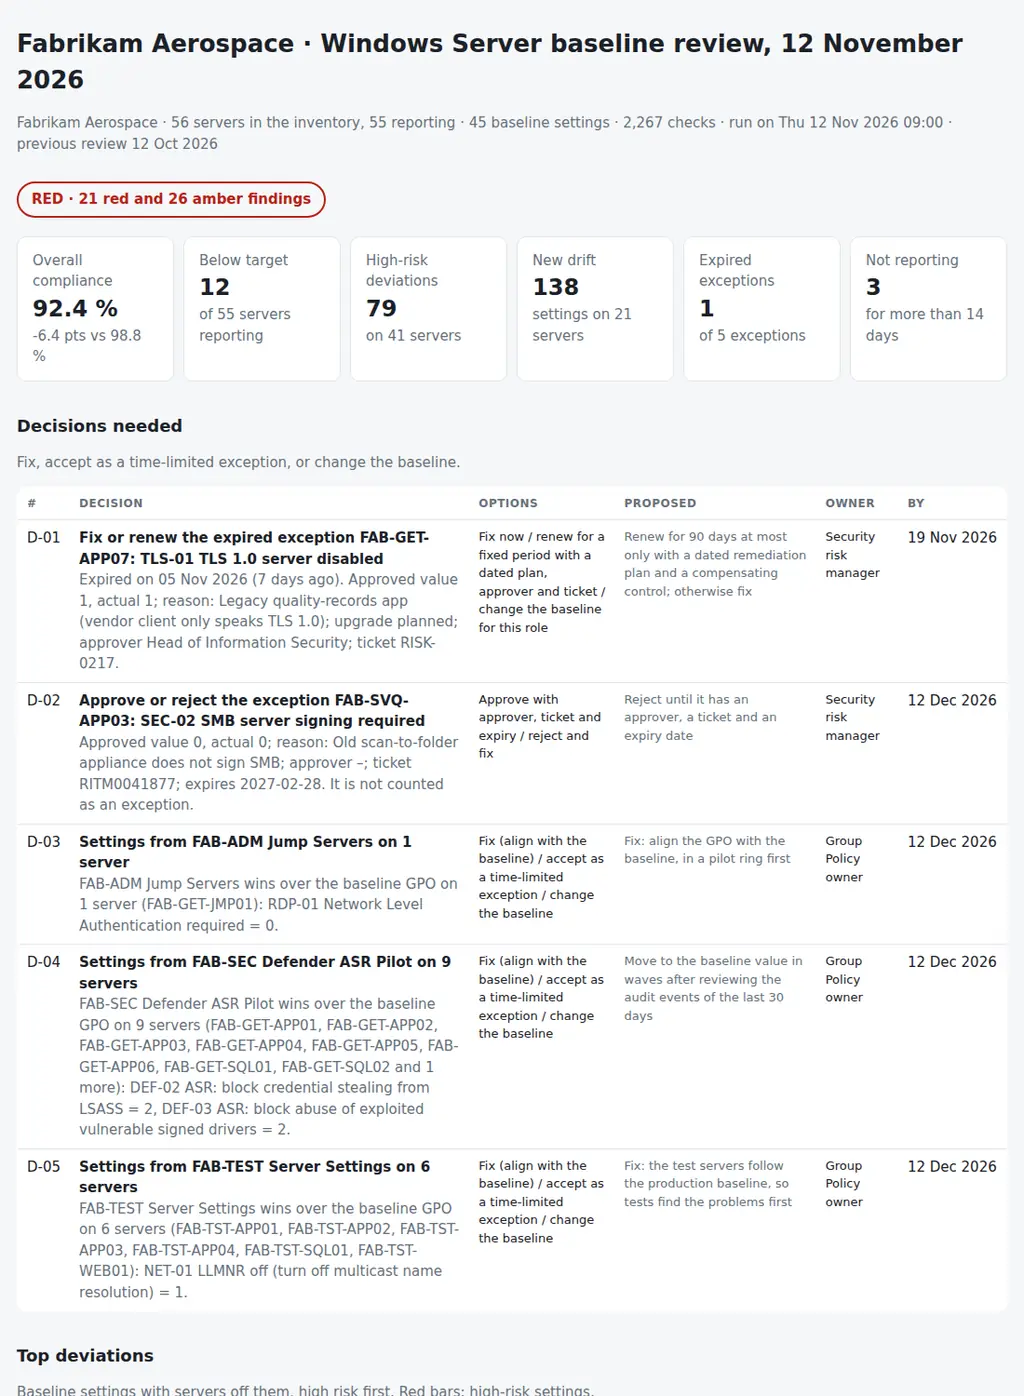
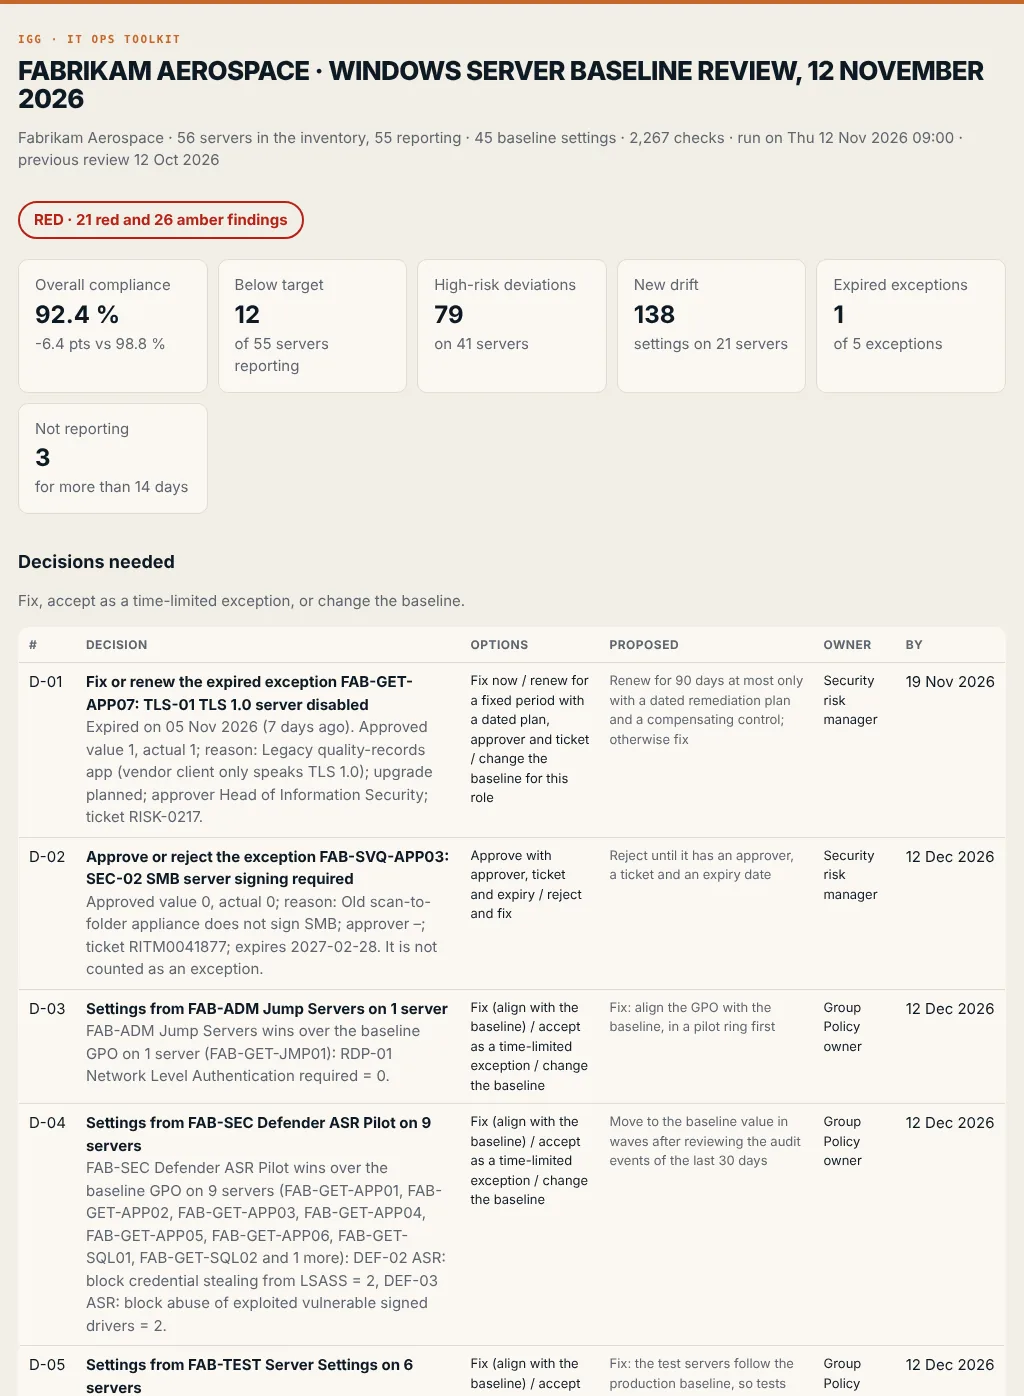
Report: IGG colours (paper, ink and the orange accent) and a new screenshot

diff --git a/baselinedrift/report.py b/baselinedrift/report.py
@@ -199,11 +199,11 @@ def pack_md(d: Data, rv: dict, title: str) -> str:
 # ---------------------------------------------------------------- html
 
 CSS = """
-:root{--bg:#f6f7f8;--card:#fff;--ink:#1b2128;--muted:#66717c;--line:#e2e5e9;--ok:#1e7a4c;--warn:#a46200;--bad:#b42318;--info:#0b6bcb;
---g:#cfeedd;--a:#fbe6bd;--r:#f8d2cd;--n:#eef0f2}
-@media (prefers-color-scheme:dark){:root{--bg:#13171b;--card:#1b2127;--ink:#e7eaee;--muted:#9aa5b0;--line:#2b333b;--ok:#4cc38a;--warn:#f0a83a;
---bad:#f2685c;--info:#5aa9f0;--g:#173527;--a:#3d2f12;--r:#45201d;--n:#232a31}}
-*{box-sizing:border-box}body{margin:0;background:var(--bg);color:var(--ink);font:15px/1.5 system-ui,-apple-system,Segoe UI,sans-serif}
+:root{--bg:#f2eee6;--card:#fbf8f3;--ink:#0e1a24;--muted:#5d6670;--line:#e2dccf;--ok:#1e7a4c;--warn:#a46200;--bad:#b42318;--info:#1f5f8b;
+--g:#cfeedd;--a:#fbe6bd;--r:#f8d2cd;--n:#e8e2d6}
+@media (prefers-color-scheme:dark){:root{--bg:#0e1a24;--card:#142331;--ink:#f2eee6;--muted:#a9b3bb;--line:#24364a;--ok:#4cc38a;--warn:#f0a83a;
+--bad:#f2685c;--info:#5aa9f0;--g:#173527;--a:#3d2f12;--r:#45201d;--n:#1b2b3b}}
+*{box-sizing:border-box}body{border-top:4px solid #c4672b}h1{font-weight:800;letter-spacing:-.025em;text-transform:uppercase;line-height:1.05}h1::before{content:"IGG · IT Ops toolkit";display:block;font:600 11px/1.4 ui-monospace,SFMono-Regular,Menlo,monospace;letter-spacing:.14em;text-transform:uppercase;color:#c4672b;margin-bottom:10px}body{margin:0;background:var(--bg);color:var(--ink);font:15px/1.5 system-ui,-apple-system,Segoe UI,sans-serif}
 main{max-width:1100px;margin:0 auto;padding:28px 18px 60px}h1{font-size:26px;margin:0 0 4px}h2{font-size:18px;margin:34px 0 12px}
 .muted{color:var(--muted)}.tiles{display:grid;grid-template-columns:repeat(auto-fit,minmax(160px,1fr));gap:10px;margin-top:20px}
 .tile{background:var(--card);border:1px solid var(--line);border-radius:10px;padding:14px 16px}.tile b{display:block;font-size:24px}
